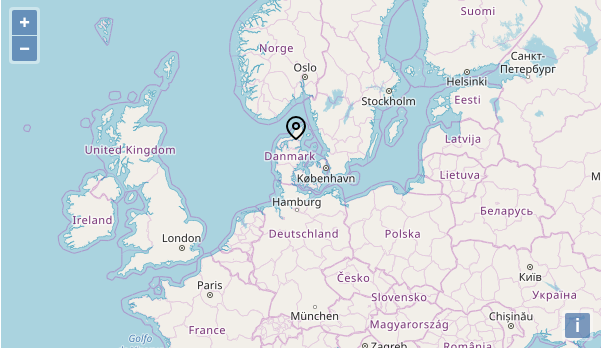
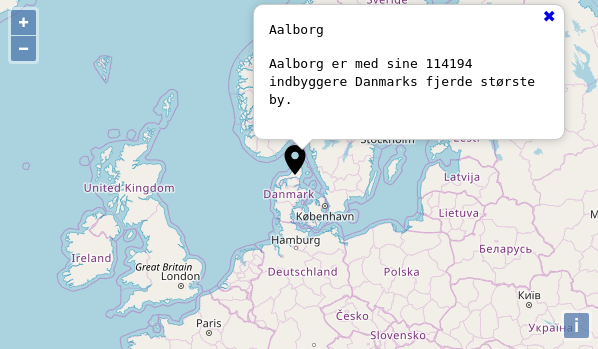
Rettelser til script og pin udskiftet

diff --git a/js/kort.js b/js/kort.js
@@ -33,10 +33,9 @@ var kortcentrum_latitude = 0;
 var kortbredde = "";
 var korthoejde = "";
 
-
 /* Modul implementering */
 
-function init() {
+document.addEventListener("DOMContentLoaded", function() {
 
     /**
      * 
@@ -94,7 +93,7 @@ function init() {
             anchor: [0.5, 1],
             anchorXUnits: 'fraction',
             anchorYUnits: 'fraction',
-            src: './map-pin.svg'
+            src: './kort-pin.png'
         }))
     });
 
@@ -131,5 +130,5 @@ function init() {
         });
     });
 
-};
+});
 

diff --git a/js/kort_indstillinger.js b/js/kort_indstillinger.js
@@ -24,6 +24,3 @@ start_niveau_zoom = 4;
 // Format for pin med forklaring er ("Overskrift","Brødtekst", longitude, latitude)
 stedliste[stedliste.length] = new sted("Aalborg", "Aalborg er med sine 114194 indbyggere Danmarks fjerde største by.", 9.9193939, 57.0482206);
 
-// -- Du skal ikke ændre linjen herunder --
-document.addEventListener("load", init());
-// ----------------------------------------

diff --git a/README.md b/README.md
@@ -10,18 +10,18 @@ Eksempel på et simpelt online kort med pin og tilhørende pop-up med forklaring
 
 Du indstiller kortet i filen [/js/kort_indstillinger.js](js/kort_indstillinger.js). Som standard, er kortet sat op til at Odense, Danmark er centrum og med en enkelt pin med tilhørende forklaring i Aalborg, Danmark.
 
-## Contributing
+## Bidragsydere
 
-Please read [CONTRIBUTING.md](https://gist.github.com/PurpleBooth/b24679402957c63ec426) for details on our code of conduct, and the process for submitting pull requests. 
+Læs venligst [CONTRIBUTING.md](https://gist.github.com/PurpleBooth/b24679402957c63ec426) for detaljer om vores adfærdskodeks og processen til at indsende pull-anmodninger.
 
 ## Forfatter
 
 * **Morten Bonderup** 
 
-## License
+## Licens
 
-This project is licensed under the BSD License - see the [LICENSE.md](LICENSE.md) file for details
+Dette projekt er licenseret under BSD-licensen - se filen [LICENSE.md] (LICENSE.md) for detaljer
 
 Baseret på https://openlayers.org/ under BSD license
 
-Kort pin fra https://feathericons.com/ under MIT license.
+Kort pin fra https://material.io/ under Apache License Version 2.0 (https://www.apache.org/licenses/LICENSE-2.0.html).
